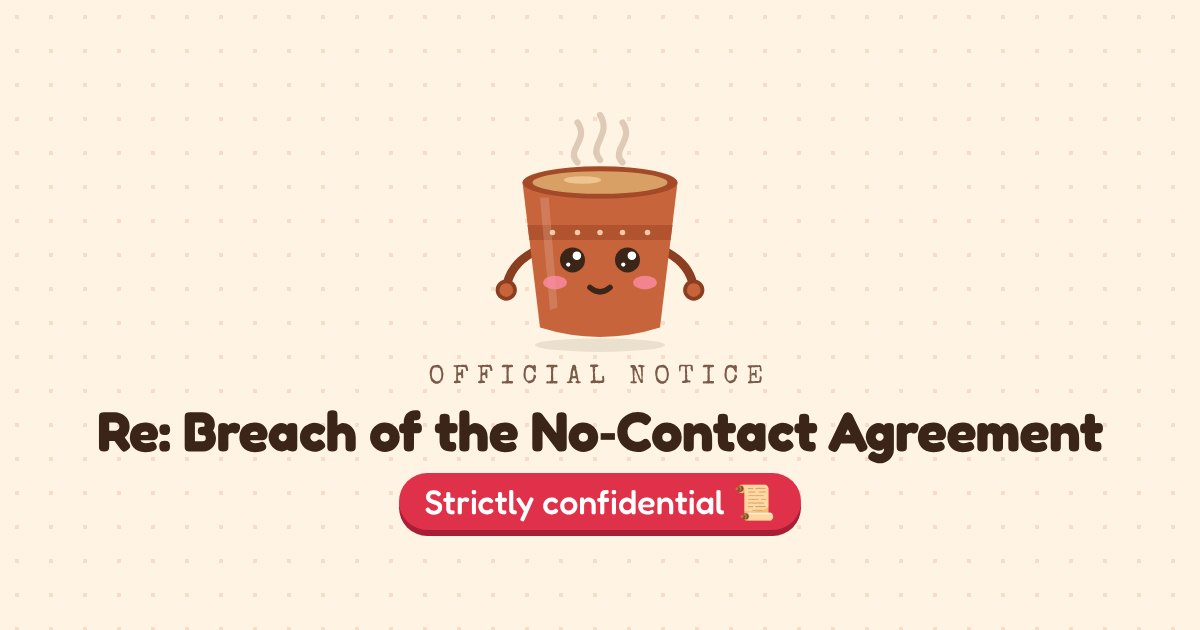
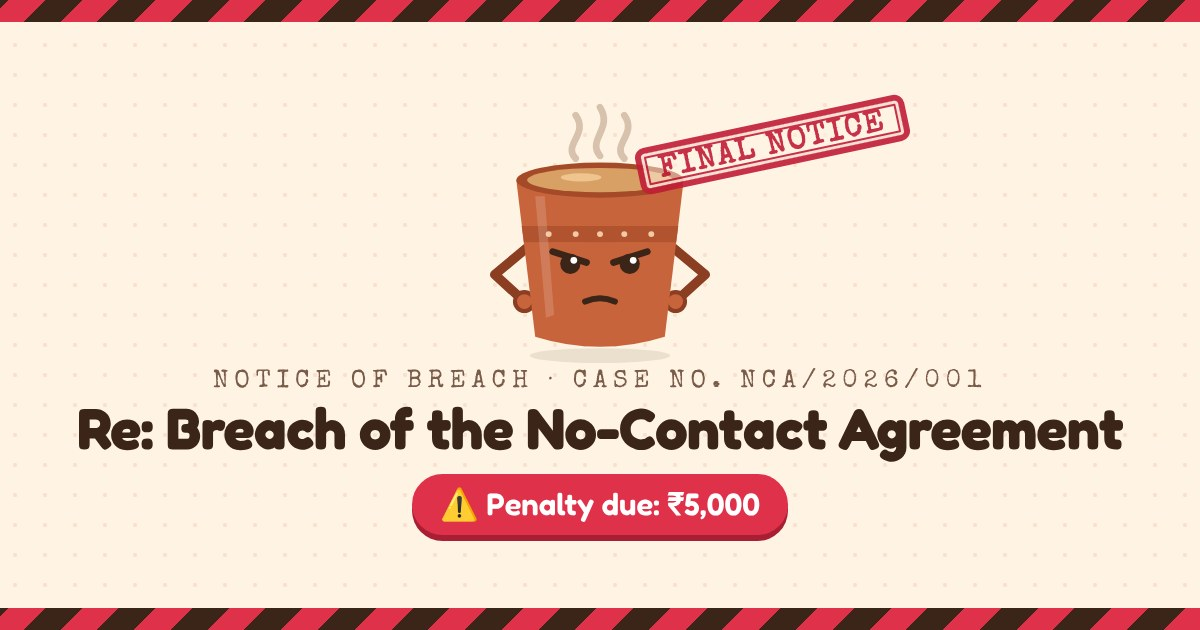
Stern chai cup on a scary "Final notice" name screen and preview image
Adds a "stern" mascot mood (glaring eyes, hands on hips, no blush,
faster steam). The name screen becomes a Final notice: hazard-striped
card, red tag, and a case docket (Clause 1 breach, ₹5,000 penalty,
awaiting response) before "Is your name ...?". The verification and
notice screens still reveal she has 0 breaches.

preview.jpg is redrawn with the stern cup, a FINAL NOTICE stamp and
"Penalty due: ₹5,000". og:image gets ?v=2 so cached previews refetch it.

Claude-Session: https://claude.ai/code/session_01DhgYaPahwc5VuBVxDFY6TK

diff --git a/index.html b/index.html
@@ -15,7 +15,7 @@
 <meta property="og:title" content="⚠ Final Notice: Breach of the No-Contact Agreement">
 <meta property="og:description" content="Addressed to: __HER_NAME__. Penalty due: ₹5,000. Immediate response required.">
 <meta property="og:url" content="__SITE_URL__/">
-<meta property="og:image" content="__SITE_URL__/preview.jpg">
+<meta property="og:image" content="__SITE_URL__/preview.jpg?v=2">
 <meta property="og:image:width" content="1200">
 <meta property="og:image:height" content="630">
 <meta name="twitter:card" content="summary_large_image">
@@ -155,6 +155,25 @@ p{margin:.5em 0}
 .checks{list-style:none; padding:0; margin:0; text-align:left; display:grid; gap:8px; font-family:var(--type); font-size:.95rem}
 .checks li{opacity:0; transform:translateX(-6px); transition:opacity .3s, transform .3s}
 .checks li.on{opacity:1; transform:none}
+
+/* ---------- Name check (final notice) ---------- */
+.card.alert{border-color:#F0C9CE; padding-top:34px}
+.card.alert::before{
+  content:""; position:absolute; top:0; left:0; right:0; height:10px;
+  border-radius:var(--radius) var(--radius) 0 0;
+  background:repeating-linear-gradient(-45deg, var(--ribbon) 0 14px, var(--ink) 14px 28px);
+}
+.tag-alert{color:#fff; background:var(--ribbon); animation:alertPulse 1.6s ease-in-out infinite}
+@keyframes alertPulse{0%,100%{box-shadow:0 0 0 0 rgba(224,49,75,.45)} 60%{box-shadow:0 0 0 9px rgba(224,49,75,0)}}
+.docket{
+  margin:14px 0 4px; padding:10px 14px; text-align:left;
+  font-family:var(--type); font-size:.86rem; line-height:1.4;
+  background:#FFF8EC; border:1.5px dashed #E3B8A0; border-radius:12px;
+}
+.docket > div{display:flex; gap:10px; padding:3px 0}
+.docket dt{flex:0 0 5.6em; color:var(--ink-soft); text-transform:uppercase; letter-spacing:.06em; font-size:.78rem; padding-top:.1em}
+.docket dd{margin:0; font-weight:700; overflow-wrap:anywhere}
+.docket .hot{color:var(--ribbon-dark)}
 
 /* ---------- Identify / exit ---------- */
 .field{display:block; text-align:left; margin-top:16px}
@@ -434,6 +453,9 @@ body.party .t-perf::before, body.party .t-perf::after{background:#FFE7C2}
 .steam path{animation:steam 2.6s ease-in-out infinite; opacity:.0}
 .steam path:nth-child(2){animation-delay:.6s}
 .steam path:nth-child(3){animation-delay:1.2s}
+.mascot.fume .steam path{animation-duration:1.4s}
+.mascot.fume .steam path:nth-child(2){animation-delay:.3s}
+.mascot.fume .steam path:nth-child(3){animation-delay:.6s}
 @keyframes steam{0%{opacity:0; transform:translateY(8px)} 40%{opacity:.9} 100%{opacity:0; transform:translateY(-10px)}}
 .tear-stream{animation:flow .6s linear infinite}
 @keyframes flow{to{stroke-dashoffset:-16}}
@@ -467,11 +489,17 @@ body.party .t-perf::before, body.party .t-perf::after{background:#FFE7C2}
 
   <!-- 1. Name check -->
   <section class="screen active" id="name" aria-labelledby="name-h">
-    <div class="card">
-      <span class="tag">🔒 Identity check</span>
-      <div class="mascot-slot" data-mood="happy"></div>
-      <h1 id="name-h" tabindex="-1">Before we begin…</h1>
-      <p class="muted">This website contains highly classified information. (It's mostly about chai and choco lava cake.)</p>
+    <div class="card alert">
+      <span class="tag tag-alert">⚠ Final notice</span>
+      <div class="mascot-slot" data-mood="stern"></div>
+      <h1 id="name-h" tabindex="-1">A breach has been recorded.</h1>
+      <dl class="docket">
+        <div><dt>Case no.</dt><dd>NCA/2026/001</dd></div>
+        <div><dt>Matter</dt><dd>Breach of Clause 1</dd></div>
+        <div><dt>Penalty</dt><dd>₹5,000</dd></div>
+        <div><dt>Status</dt><dd class="hot">Awaiting response</dd></div>
+      </dl>
+      <p class="muted small">Only the party named in this notice may open it. Identity verification is mandatory.</p>
       <p class="question">Is your name <span data-her></span>?</p>
       <div class="btn-row">
         <button class="btn btn-yes" data-go="verify">Yes, I'm <span data-her></span></button>
@@ -922,6 +950,8 @@ const CONFIG = {
   const BROWS = {
     worried: S("M67 116 L86 109", 4) + S("M114 109 L133 116", 4),
     raised: S("M68 117 L87 117", 4) + S("M113 108 Q123 98 133 108", 4),
+    angry: `<path d="M64 112 L91 112 L91 127 L64 119 Z M109 112 L136 112 L136 119 L109 127 Z" fill="currentColor"/>`
+      + S("M65 119 L90 127", 5) + S("M110 127 L135 119", 5),
   };
   const MOUTHS = {
     smile: S("M87 148 Q100 162 113 148"),
@@ -931,6 +961,7 @@ const CONFIG = {
     wail: `<path d="M86 161 Q100 138 114 161 Z" fill="${INK}" stroke="${INK}" stroke-width="3" stroke-linejoin="round"/>`,
     open: `<path d="M83 145 Q100 176 117 145 Z" fill="${INK}" stroke="${INK}" stroke-width="3" stroke-linejoin="round"/><ellipse cx="100" cy="154" rx="8" ry="4.5" fill="#FF6F91"/>`,
     flat: S("M89 154 L112 150"),
+    stern: S("M89 156 Q100 151 111 156"),
   };
   const TEARS = {
     drip: `<path class="tear-drip" d="M76 138 q-5 8 0 11 q5 -3 0 -11z" fill="#7EC8E3"/><path class="tear-drip" style="animation-delay:.8s" d="M124 138 q-5 8 0 11 q5 -3 0 -11z" fill="#7EC8E3"/>`,
@@ -940,9 +971,9 @@ const CONFIG = {
   // Arms take the body's colours: [stroke, hand fill]
   const ARMS = (pose, [arm, hand]) => {
     const limb = (d, x, y) => `<path d="${d}" fill="none" stroke="${arm}" stroke-width="7" stroke-linecap="round"/><circle cx="${x}" cy="${y}" r="7" fill="${hand}" stroke="${arm}" stroke-width="3"/>`;
-    return pose === "up"
-      ? `<g class="arms-up">${limb("M46 112 Q24 98 22 72", 22, 70)}${limb("M154 112 Q176 98 178 72", 178, 70)}</g>`
-      : `<g>${limb("M46 122 Q28 132 25 150", 25, 152)}${limb("M154 122 Q172 132 175 150", 175, 152)}</g>`;
+    if (pose === "up") return `<g class="arms-up">${limb("M46 112 Q24 98 22 72", 22, 70)}${limb("M154 112 Q176 98 178 72", 178, 70)}</g>`;
+    if (pose === "hips") return `<g stroke-linejoin="round">${limb("M46 116 L22 136 L44 156", 44, 156)}${limb("M154 116 L178 136 L156 156", 156, 156)}</g>`;
+    return `<g>${limb("M46 122 Q28 132 25 150", 25, 152)}${limb("M154 122 Q172 132 175 150", 175, 152)}</g>`;
   };
   const BODIES = {
     chai: {
@@ -988,6 +1019,7 @@ const CONFIG = {
     content:    { eyes: "closedHappy", mouth: "smile" },
     ecstatic:   { eyes: "closedHappy", mouth: "open", arms: "up", stars: true, cls: "party" },
     suspicious: { eyes: "squint", brows: "raised", mouth: "flat" },
+    stern:      { eyes: "dots", brows: "angry", mouth: "stern", arms: "hips", blush: false, cls: "fume" },
   };
   function mascot(mood = "happy", size = "", kind = "chai") {
     const m = MOODS[mood] || MOODS.happy;
@@ -1000,9 +1032,9 @@ const CONFIG = {
       ${b.shadow}
       ${ARMS(m.arms, b.colors)}
       ${b.body}
-      <g ${b.face}>
-        <ellipse cx="64" cy="146" rx="9.5" ry="5.5" fill="#FF8FAB" opacity=".75"/>
-        <ellipse cx="136" cy="146" rx="9.5" ry="5.5" fill="#FF8FAB" opacity=".75"/>
+      <g ${b.face} color="${b.colors[1]}">
+        ${m.blush === false ? "" : `<ellipse cx="64" cy="146" rx="9.5" ry="5.5" fill="#FF8FAB" opacity=".75"/>
+        <ellipse cx="136" cy="146" rx="9.5" ry="5.5" fill="#FF8FAB" opacity=".75"/>`}
         ${m.brows ? BROWS[m.brows] : ""}
         ${EYES[m.eyes]}
         ${MOUTHS[m.mouth]}

diff --git a/README.md b/README.md
@@ -13,7 +13,9 @@ from repository **secrets** and publishes the result to GitHub Pages.
 
 ## The flow
 
-1. **Identity check**: "Is your name ___?" No → asks once more → "Please identify yourself" → asks them to exit calmly.
+1. **Identity check**, dressed up as a scary **Final notice** so it looks like *she's* the one in breach: a stern
+   chai cup (hands on hips), a case number and a ₹5,000 penalty. The link preview (`preview.jpg` and the `og:` tags) says the same.
+   "Is your name ___?" No → asks once more → "Please identify yourself" → asks them to exit calmly.
    If they then type her name in the box, it calls them out.
 2. **Verification** (fake scan) → **Official Notice**: the sender confesses to the breach, with a scoreboard
    (him: 1 breach; her: 0 breaches, ₹5,000 untouched 🏆) → **The plan**: chai (black tea, milk not invited),
